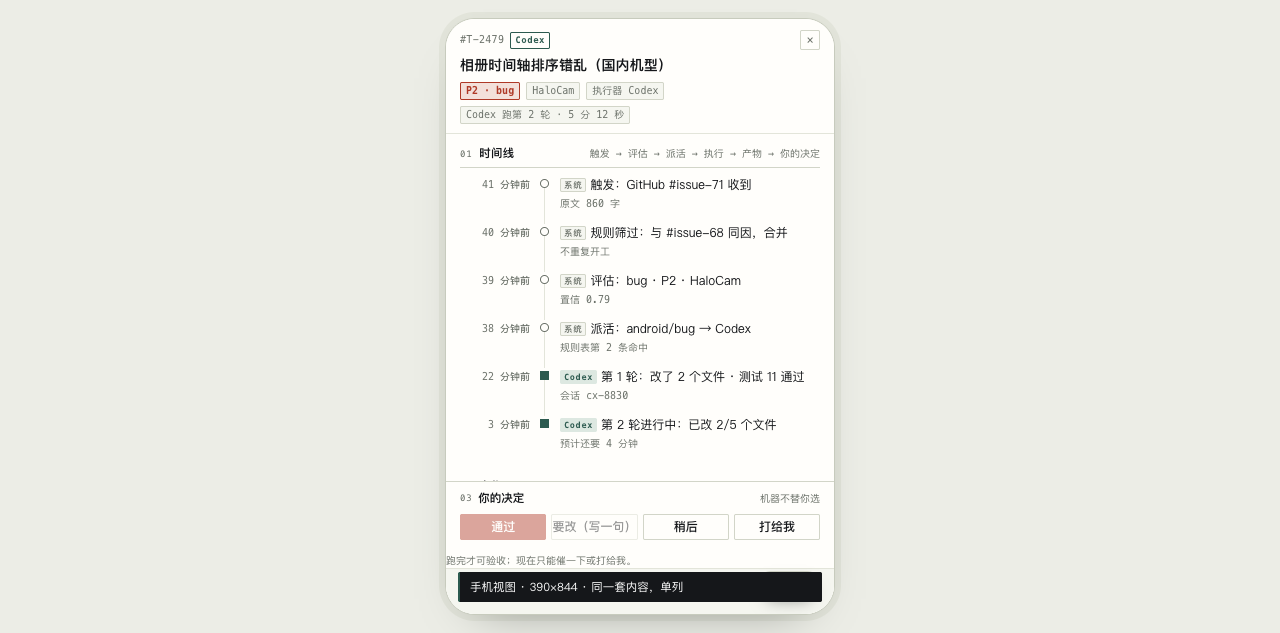
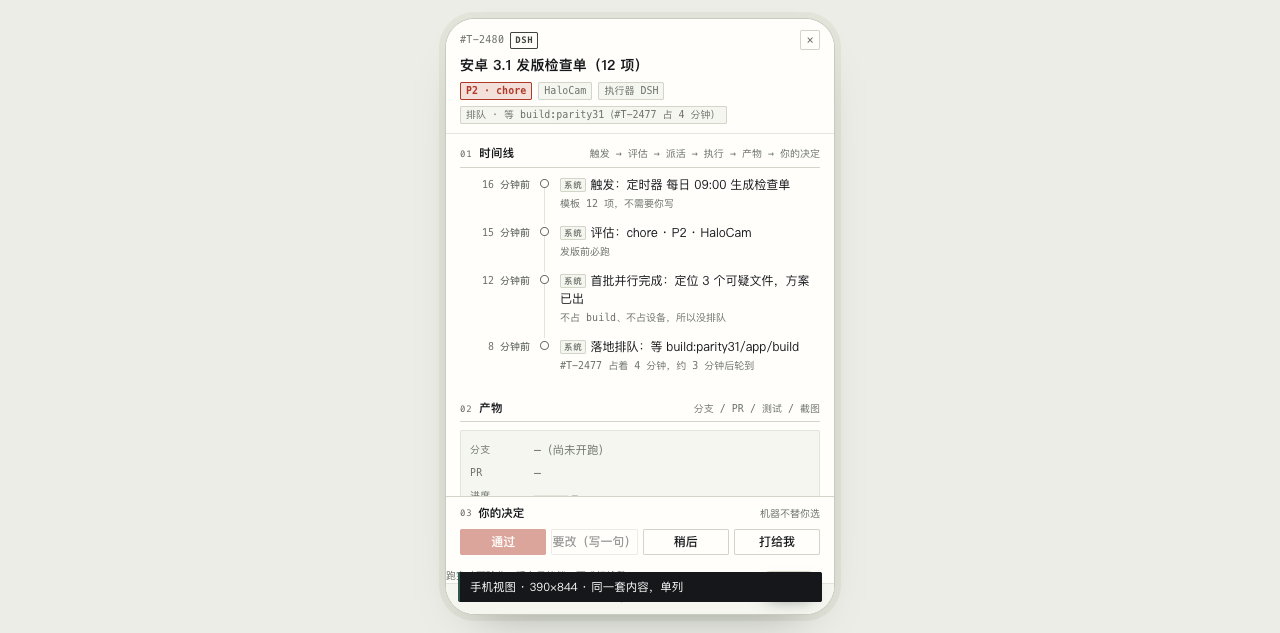
docs(board): 补并行与排队模型（§6.5）并在原型里演示 lane 排队
- 首批并行 / 落地串行：只有抢 build/device lane 的阶段排队
- 排队可解释（等哪个 lane、被谁占、多久）+ 可插队 / 可换执行器
- 原型：排队卡显示 lane 原因，详情时间线展示「首批完成 → 落地排队」

diff --git a/docs/009-superagent-board/prototype.html b/docs/009-superagent-board/prototype.html
@@ -733,7 +733,7 @@ const DATA = {
   groups: [
     { key: 'decide',  en: 'DECIDE',  name: '等你判断',        hot: true, sub: '最老的已等你 2 小时' },
     { key: 'running', en: 'RUNNING', name: '正在跑',          hot: false, sub: '槽位 2/4 · Codex 排队 2' },
-    { key: 'queued',  en: 'QUEUED',  name: '排队中',          hot: false, sub: '等槽位或等上游' },
+    { key: 'queued',  en: 'QUEUED',  name: '排队中',          hot: false, sub: '等共享资源，不是等 Agent' },
     { key: 'done',    en: 'CLOSED',  name: '已结束（近 24h）', hot: false, sub: '你点过通过 / 打回' }
   ],
 
@@ -852,11 +852,12 @@ const DATA = {
     },
     {
       id: 'T-2480', title: '安卓 3.1 发版检查单（12 项）', project: 'HaloCam', prio: 2, exec: 'DSH',
-      group: 'queued', m: 8, kind: 'chore', status: '排队 · 等 DSH 槽位（前面 1 个）',
+      group: 'queued', m: 8, kind: 'chore', status: '排队 · 等 build:parity31（#T-2477 占 4 分钟）',
       timeline: [
         { m: 16, a: 'system', x: '触发：定时器 每日 09:00 生成检查单', s: '模板 12 项，不需要你写' },
         { m: 15, a: 'system', x: '评估：chore · P2 · HaloCam', s: '发版前必跑' },
-        { m: 8,  a: 'system', x: '排队：等 DSH 槽位', s: '前面 1 个任务，预计 6 分钟' }
+        { m: 12, a: 'system', x: '首批并行完成：定位 3 个可疑文件，方案已出', s: '不占 build、不占设备，所以没排队' },
+        { m: 8,  a: 'system', x: '落地排队：等 build:parity31/app/build', s: '#T-2477 占着 4 分钟，约 3 分钟后轮到' }
       ],
       artifacts: {
         branch: '—（尚未开跑）', pr: '—',
@@ -867,11 +868,11 @@ const DATA = {
     },
     {
       id: 'T-2474', title: 'arXiv 摘要 pipeline 去重', project: '研究', prio: 3, exec: 'Codex',
-      group: 'queued', m: 41, kind: 'task', status: '排队 · 等 Codex 槽位（2 个在前面）',
+      group: 'queued', m: 41, kind: 'task', status: '排队 · 等 Codex 配额（2/2）· 可换 DSH 立跑',
       timeline: [
         { m: 60, a: 'system', x: '触发：DSH 会话', s: '「每天推的论文有重复」' },
         { m: 58, a: 'system', x: '评估：task · P3 · 研究', s: '不紧急' },
-        { m: 41, a: 'system', x: '排队：等 Codex 槽位', s: '并发上限 2，当前 2/2' }
+        { m: 41, a: 'system', x: '排队：Codex 配额已满', s: 'DSH 通道空闲，换执行器可立即开跑' }
       ],
       artifacts: {
         branch: '—（尚未开跑）', pr: '—',
